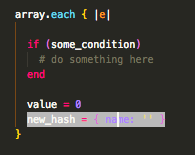
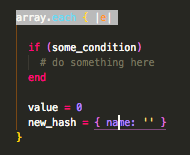
Updated README

diff --git a/README.md b/README.md
@@ -13,7 +13,10 @@ This extension is designed to: (Ruby) help identify the innermost block that the
 * The line that starts the innermost block/scope of the selected line will be highlighted.  
 ![](./images/example_highlighting_1.png) ![](./images/example_highlighting_2.png) ![](./images/example_highlighting_3.png)  
   
-* The extension supports Python as well, though the functionality is somewhat different than with Ruby. In Python, the parent scope of the selected line will be highlighted. Therefore if the cursor is place on an "if" conditional, for example, when the command is activated, the parent scope of that if statement will be highlighted, not the if statement itself like with Ruby. This is because the functionality for Ruby is to find the beginning of the innermost block for a certain line, including the line itself. For Python, the functionality is to match a line to its parent scope.  
+* **RUBY**: Where you place your cursor within the line may matter. For example, if you place your cursor before, on, or directly after the keyword "if" (and it's the first keyword in the line that starts a block), the if statement's parent block will be highlighted. However, if you place your cursor completely after the keyword "if" as such: "if |" (where | is the cursor), the if statement itself will be highlighted, since you are now within its scope.  
+![](./images/ruby_scope_change_1.png) ![](./images/ruby_scope_change_2.png)  
+  
+* The extension supports Python as well, though the functionality is somewhat different than with Ruby. In Python, the parent scope of the selected line will be highlighted. Therefore if the cursor is place on an a line in an "elif" conditional, for example, when the command is activated, the elif will be highlighted. However with Ruby, the if statement that the elsif belongs to will be highlighted.  
 ![](./images/python_example_1.png) ![](./images/python_example_2.png) ![](./images/python_example_3.png)  
 ![](./images/python_example_4.png) ![](./images/python_example_5.png) ![](./images/python_example_6.png)  
   
